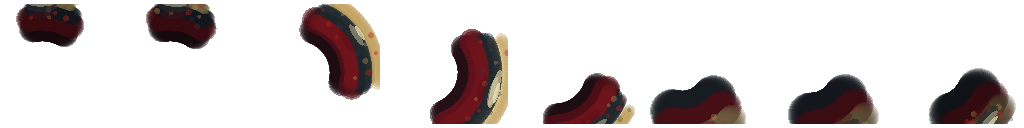
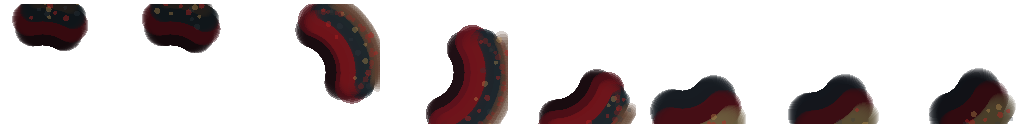
fix: prevent duplicate axe rendering

diff --git a/tools/generateAxeSwingSheet.py b/tools/generateAxeSwingSheet.py
@@ -32,32 +32,22 @@ def draw_swing_frame(pixels: bytearray, sheet_width: int, x_offset: int, frame: 
     arc_widths = [0.46, 0.50, 0.92, 1.10, 0.84, 0.68, 0.56, 0.48]
     intensity = [0.72, 0.74, 1.0, 1.25, 1.02, 0.88, 0.76, 0.68][frame]
     angle = math.radians(angle_degrees[frame])
-    handle_length = 46
-    blade_distance = 66
-    blade_angle = angle - 0.26
     arc_start = angle - arc_widths[frame]
     arc_end = angle + arc_widths[frame] * (0.58 if frame < 4 else 0.42)
 
-    draw_arc(pixels, sheet_width, x_offset, cx, cy, 45, arc_start, arc_end, 14, scale_color((28, 12, 17, 118), intensity))
-    draw_arc(pixels, sheet_width, x_offset, cx, cy, 55, arc_start - 0.03, arc_end + 0.04, 13, scale_color((75, 14, 22, 140), intensity))
-    draw_arc(pixels, sheet_width, x_offset, cx, cy, 64, arc_start + 0.06, arc_end - 0.01, 9, scale_color((20, 31, 37, 118), intensity))
-    draw_arc(pixels, sheet_width, x_offset, cx, cy, 72, arc_start + 0.12, arc_end - 0.10, 5, scale_color((150, 132, 87, 126), intensity))
-    draw_arc(pixels, sheet_width, x_offset, cx, cy, 79, arc_start + 0.20, arc_end - 0.20, 3, scale_color((224, 217, 176, 96), intensity))
+    draw_arc(pixels, sheet_width, x_offset, cx, cy, 45, arc_start, arc_end, 18, scale_color((25, 12, 16, 132), intensity))
+    draw_arc(pixels, sheet_width, x_offset, cx, cy, 55, arc_start - 0.03, arc_end + 0.04, 17, scale_color((75, 14, 22, 152), intensity))
+    draw_arc(pixels, sheet_width, x_offset, cx, cy, 64, arc_start + 0.06, arc_end - 0.01, 13, scale_color((19, 30, 36, 132), intensity))
+    draw_arc(pixels, sheet_width, x_offset, cx, cy, 72, arc_start + 0.12, arc_end - 0.10, 8, scale_color((47, 41, 37, 72), intensity))
+    draw_arc(pixels, sheet_width, x_offset, cx, cy, 79, arc_start + 0.20, arc_end - 0.20, 5, scale_color((92, 18, 25, 48), intensity))
     if frame in [2, 3, 4]:
         draw_impact_smear(pixels, sheet_width, x_offset, cx, cy, arc_start, arc_end, frame)
     if frame >= 5:
         draw_follow_through_smoke(pixels, sheet_width, x_offset, cx, cy, arc_start, arc_end, frame)
     draw_sparks(pixels, sheet_width, x_offset, cx, cy, arc_start, arc_end, frame_seed=frame * 271)
 
-    bx = cx + math.cos(blade_angle) * blade_distance
-    by = cy + math.sin(blade_angle) * blade_distance
-    blade_scale = 0.78 if frame != 3 else 0.95
-    draw_rotated_ellipse(pixels, sheet_width, x_offset, bx, by, 20 * blade_scale, 7 * blade_scale, blade_angle + math.pi / 2, (36, 42, 45, 164))
-    draw_rotated_ellipse(pixels, sheet_width, x_offset, bx + math.cos(blade_angle) * 3, by + math.sin(blade_angle) * 3, 16 * blade_scale, 4 * blade_scale, blade_angle + math.pi / 2, (154, 151, 128, 178))
-    draw_rotated_ellipse(pixels, sheet_width, x_offset, bx + math.cos(blade_angle) * 7, by + math.sin(blade_angle) * 7, 11 * blade_scale, 2.7 * blade_scale, blade_angle + math.pi / 2, (232, 226, 181, 188))
-    draw_rotated_ellipse(pixels, sheet_width, x_offset, bx - math.cos(blade_angle) * 8, by - math.sin(blade_angle) * 8, 13, 4, blade_angle + math.pi / 2, (83, 14, 20, 94))
-    if frame == 3:
-        draw_rotated_ellipse(pixels, sheet_width, x_offset, bx + 5, by - 2, 20, 4, blade_angle + math.pi / 2, (239, 229, 184, 152))
+    if frame in [2, 3, 4]:
+        draw_ember_ridge(pixels, sheet_width, x_offset, cx, cy, arc_start, arc_end, frame)
 
 
 def draw_impact_smear(
@@ -73,12 +63,32 @@ def draw_impact_smear(
     colors = [
         (111, 20, 26, 98),
         (29, 38, 44, 104),
-        (192, 158, 91, 94),
+        (94, 66, 48, 62),
     ]
     for band in range(3):
         radius = 50 + band * 13 + frame * 2
-        thickness = 8 - band
+        thickness = 12 - band * 2
         draw_arc(pixels, sheet_width, x_offset, cx, cy, radius, start + band * 0.07, end - band * 0.04, thickness, colors[band])
+
+
+def draw_ember_ridge(
+    pixels: bytearray,
+    sheet_width: int,
+    x_offset: int,
+    cx: float,
+    cy: float,
+    start: float,
+    end: float,
+    frame: int,
+) -> None:
+    for i in range(26):
+        t = i / 25
+        angle = start + (end - start) * t
+        radius = 62 + math.sin(t * math.pi) * 14 + frame
+        x = cx + math.cos(angle) * radius
+        y = cy + math.sin(angle) * radius
+        color = (152, 34, 31, 88) if i % 3 else (68, 49, 43, 54)
+        draw_circle(pixels, sheet_width, x_offset, x, y, 2 + (i % 2), color)
 
 
 def draw_follow_through_smoke(
